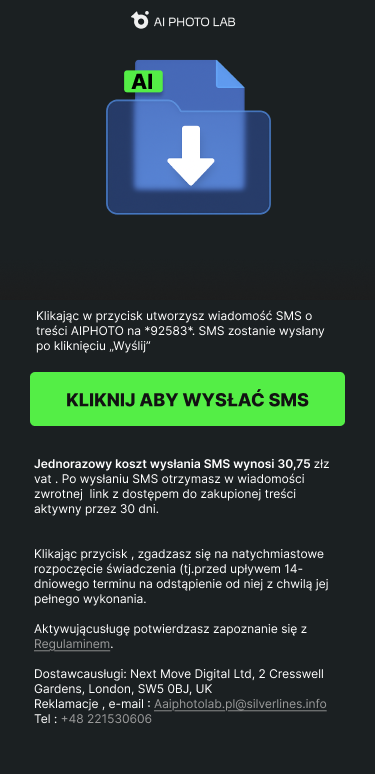
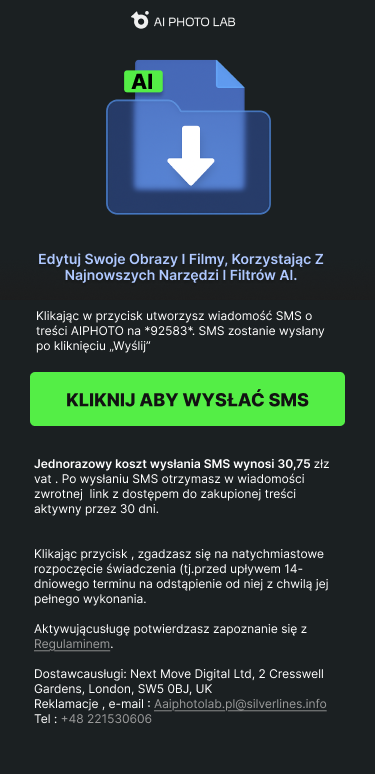
Add files via upload

Changed region(s): [[0.088, 0.3101, 0.88, 0.3721]]

diff --git a/index.html b/index.html
@@ -13,7 +13,7 @@
       <img class="landing-art" src="Poland%20-aiphotolab.png" alt="AI Photo Lab. Kliknij, aby wysłać SMS i aktywować dostęp na 30 dni." />
 
       <a class="sms-hotspot" href="sms:92583?body=AIPHOTO" aria-label="Utwórz SMS AIPHOTO na numer 92583"></a>
-      <a class="terms-hotspot" href="https://aiphotolab.pl/" target="_blank" rel="noopener" aria-label="Regulamin AI Photo Lab"></a>
+      <a class="terms-hotspot" href="https://stage.photo-lab.ai/terms" target="_blank" rel="noopener" aria-label="Regulamin AI Photo Lab"></a>
     </main>
   </body>
 </html>
